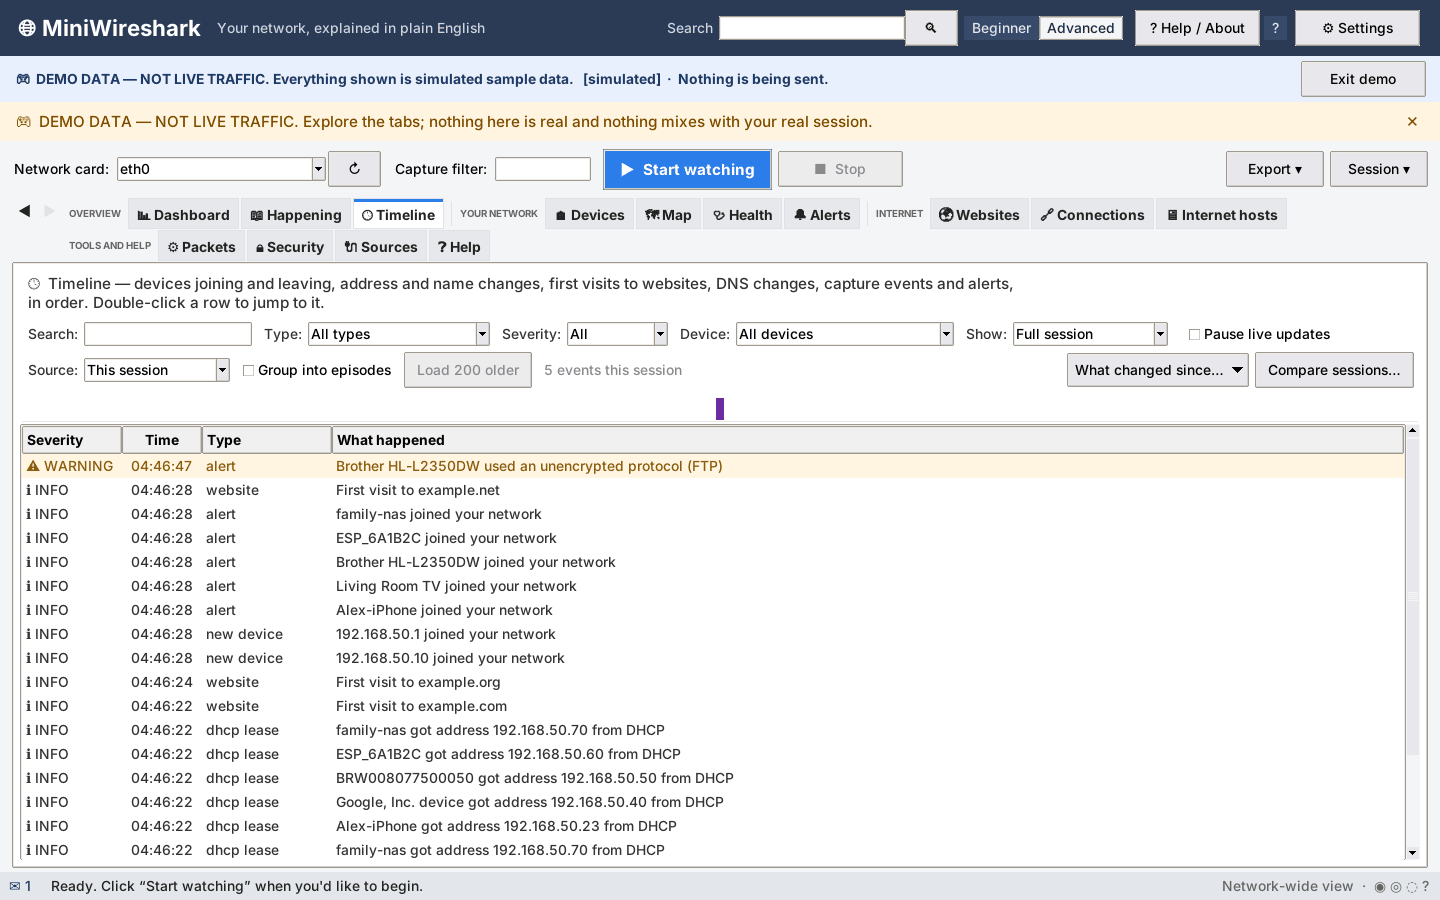
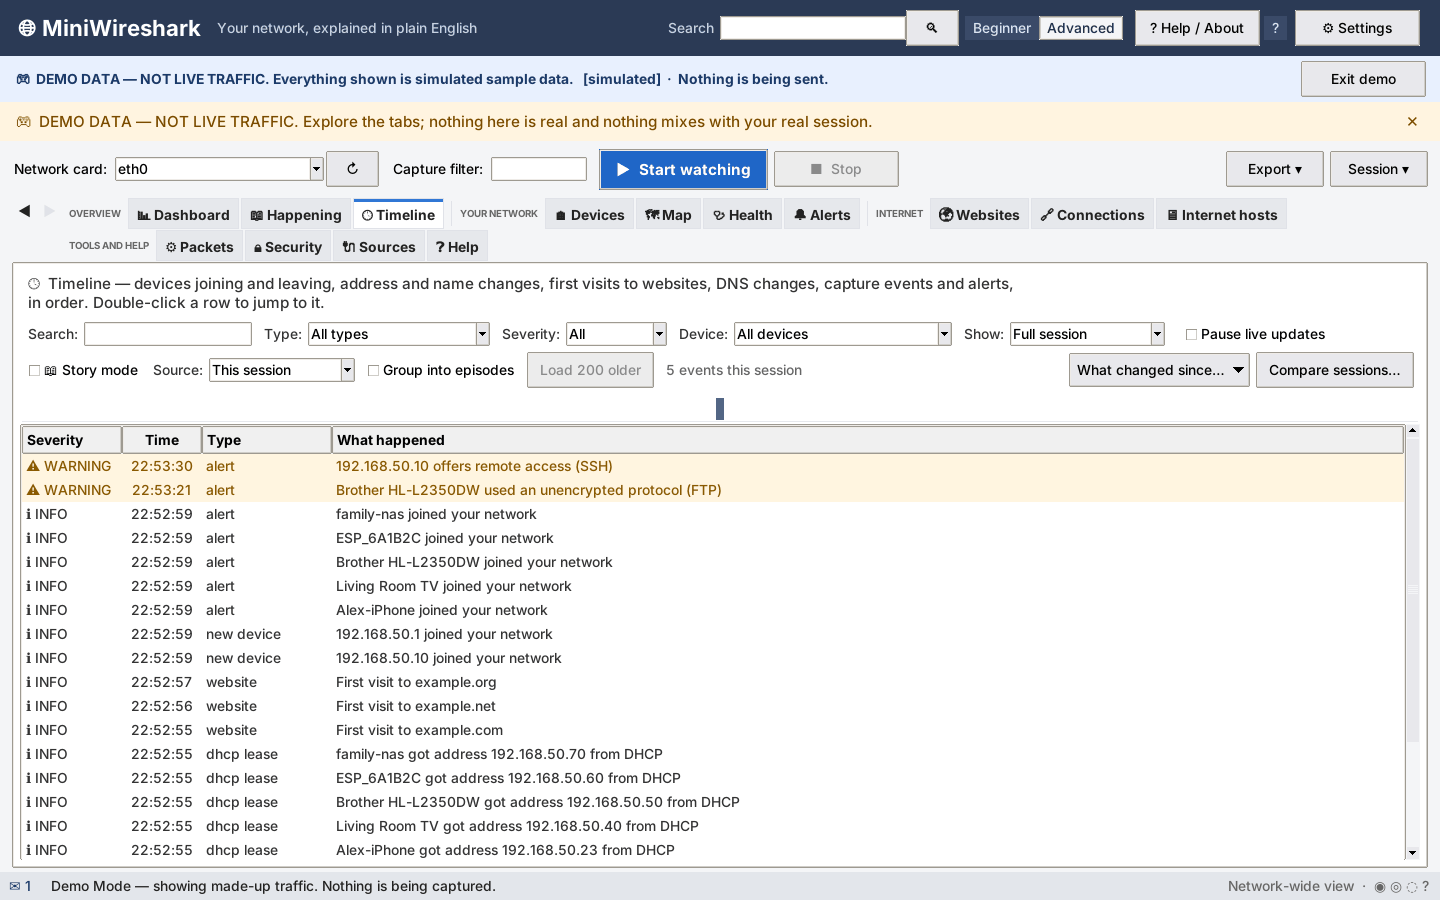
Docs: 5.3.4 screenshots, a 'Can I trust it?' page, new-feature pictures
- 34 fresh Demo Mode screenshots (every tab, light and dark, plus Story
  mode, Unusual activity and a guided question), checked for personal data
- docs/TRUST.md: how to check each claim yourself (checksums, what it
  sends and when, what it keeps, permissions, tests, honest limits)
- README and the docs index link it; issue chooser links Trust, FAQ and
  Discussions

Claude-Session: https://claude.ai/code/session_01RurBqpLVYW4KeY1YgibHyt

diff --git a/docs/TRUST.md b/docs/TRUST.md
@@ -1,0 +1,94 @@
+<p align="center"><img src="assets/icons/shield.svg" width="72" alt=""></p>
+
+# Can I trust MiniWireshark? Check for yourself
+
+A network monitor sees everything your computer sends, so you should be skeptical about it. This page doesn't ask you to take anything on faith. Each claim below comes with a way to check it yourself.
+
+## In short
+
+| Claim | How to check it |
+|---|---|
+| It is one readable Python file, with no installer and no compiled code. | Open `miniwireshark.py` in any text editor. Its docstring lists every region in order. |
+| The file you downloaded is the published one. | Compare its SHA-256 with the `.sha256` file on the release and with the [version index](VERSIONS.md). |
+| It has no telemetry. Everything it sends goes through one gate and is listed. | Open **Security → What MiniWireshark sent**. Turn on the **kill switch** and watch it block everything. |
+| It never phones home for updates from anywhere but GitHub. | Read [SECURITY.md](../SECURITY.md#where-updates-come-from). Search the file for `OFFICIAL_UPDATE_REPO`. |
+| Its claims are tested. | Run `python miniwireshark.py --self-test` on your own computer (a few minutes, no capture or admin rights needed). |
+| It says what it can't see. | The vantage meter in the bottom-right corner, and **Help → What this computer can see**. |
+
+## 1. Check the download
+
+Download it only from the [official releases page](https://github.com/darkckillerc4/MiniWireshark/releases). Other sites may offer changed copies.
+
+```bash
+sha256sum miniwireshark-<version>.py          # Linux
+shasum -a 256 miniwireshark-<version>.py      # macOS
+```
+
+```powershell
+Get-FileHash -Algorithm SHA256 .\miniwireshark-<version>.py   # Windows
+```
+
+The value must match the `.sha256` file next to it on the release. Every release since 1.0 is listed with its checksum in [VERSIONS.md](VERSIONS.md). Each release is built by the public [release workflow](../.github/workflows/release.yml) from the commit it names. You can compare the file with `git show v<version>:miniwireshark.py`.
+
+## 2. Check what it sends
+
+MiniWireshark mostly *listens*. It sends something in the following cases, each through one function, `outbound()`, which records the send in a ledger:
+
+| What | When | Where it goes |
+|---|---|---|
+| Update check | Once a day, unless you turn it off | `api.github.com`, for the latest release number only |
+| Reference lists | About once a month, unless you turn it off | `wireshark.org` (vendor names) and `publicsuffix.org`. Plain file downloads. |
+| Private Python and packages | Only when you approve the download list | `python.org` and the Python Package Index (`pypi.org`, `files.pythonhosted.org`) |
+| Npcap (Windows) | Only when you choose to install it | `npcap.com` |
+| Health checks | When you open Health or run them | Your router, your DNS server, and a test address |
+| Device discovery (Active Mode) | Only on your own subnet, and never on a network you haven't trusted | Devices on your local network |
+| Country lookup | **Off** by default | An online lookup service, only if you turn it on |
+| Pi-hole / AdGuard Home | Only if you add one | The helper you added, on your network |
+| Router port-forwarding check | Only when you press the button | Your router |
+
+How to check:
+
+- **Security → What MiniWireshark sent** lists every send, with its purpose and destination.
+- The **kill switch** (Settings → Privacy & Lookups) blocks all of it. A blocked send is listed as blocked.
+- **Safe Mode** (`--safe`) starts with no automatic capture, no history, no update checks and no downloads.
+- Watch it from outside with your firewall, or with Wireshark itself. Filter on the computer's address while MiniWireshark runs in Demo Mode, which sends nothing at all.
+- In the code, a self-test (`outbound_bypasses`) parses the file and fails if any network call skips the gate. That includes `pip` and other programs it starts.
+
+## 3. Check what it keeps
+
+Everything it writes goes in one data folder (see [Installation](INSTALL.md#where-it-keeps-its-files)): logs, sessions, the optional history, and its private packages. History is **off** by default.
+
+- Passwords, mail logins and message bodies are dropped inside the decoders and never stored. A canary self-test plants fake secrets and checks every report, session, CSV, log, history row and clipboard copy for them.
+- On Linux and macOS the data folder is closed to other users.
+- **Storage used…** in the command palette (`Ctrl+K`) shows what each part takes. Deleting the folder removes everything.
+- Shareable reports and the Network check-up can replace names and addresses with pseudonyms.
+
+## 4. Check the permissions it asks for
+
+- **Windows:** packet capture needs the [Npcap](https://npcap.com/) driver. Once Npcap is installed, capture works without administrator rights.
+- **Linux and macOS:** capture needs root, `CAP_NET_RAW` or access to `/dev/bpf*`. From 5.3.4 MiniWireshark doesn't start as administrator. It asks for your password only when capture starts. Demo Mode, capture files and the help never ask.
+
+You can always say no. It then opens in limited mode, where you can still use capture files, saved sessions and the demo.
+
+## 5. Check how it is tested
+
+- **Self-test:** more than 340 tests built into the file (`--self-test`). They cover the decoders, the alert rules, the privacy canary, the outbound gate, corrupt files and clock jumps.
+- **GUI test:** `--gui-test` drives the real window through every tab.
+- **CI:** every push and pull request runs the self-test on Python 3.8, 3.12 and 3.13, the GUI test on two Ubuntu versions, the self-test and GUI test on Windows, the self-test on macOS, and a [privacy check](../.github/scripts/privacy_check.py) that keeps captures, personal data and keys out of this public repository. Results are on the [Actions page](https://github.com/darkckillerc4/MiniWireshark/actions).
+- **Long runs:** 5.3.4 ran an 8-hour soak test on a real Windows PC, which tracked memory, threads and handles.
+- **Screenshots** in these docs are taken from Demo Mode: simulated data with reserved `.example` names. Nothing in them is real traffic.
+
+## 6. Honest limits
+
+- **It can only see what reaches this computer.** On Wi-Fi and on most switches, that is mostly this computer's own traffic plus broadcasts. It says so and doesn't guess the rest. Seeing more needs a mirror port, a hub, or a DNS helper such as Pi-hole.
+- **Device types are evidence-based guesses.** Every guess shows its confidence and the evidence for it. An IP address alone is never counted as a device.
+- **Encrypted traffic stays encrypted.** It sees which site a connection goes to (from DNS and TLS names), not what was said.
+- **It is not a replacement for Wireshark.** It covers the common protocols in depth, but Wireshark has thousands of dissectors.
+- **It is pure Python.** That is fine for a home or small-office network. On very busy links it says when it falls behind and only counts packets until it catches up.
+- **How it is made:** MiniWireshark is a one-person project. Most of the code is written with an AI coding assistant (Claude), then reviewed, tested and released by the maintainer. Each change comes with self-tests, and nothing ships without the maintainer's sign-off.
+
+## 7. Found a problem?
+
+Security issues: please use private reporting, as described in [SECURITY.md](../SECURITY.md). Anything else: [open an issue](https://github.com/darkckillerc4/MiniWireshark/issues/new/choose). If you checked one of the claims above and it didn't hold, that is exactly what we want to hear.
+
+MiniWireshark is an independent project. It is not affiliated with or endorsed by the Wireshark Foundation or the Wireshark project.

diff --git a/README.md b/README.md
@@ -60,7 +60,7 @@ The engineering underneath (a self-installing private Python runtime, a decoder 
 
 ## Screenshots
 
-All taken in Demo Mode, and they follow your GitHub theme. Every tab, in both themes, is in [docs/SCREENSHOTS.md](docs/SCREENSHOTS.md).
+All taken with 5.3.4 in Demo Mode (simulated data, nothing captured), and they follow your GitHub theme. Every tab, in both themes, is in [docs/SCREENSHOTS.md](docs/SCREENSHOTS.md).
 
 <table>
 <tr>
@@ -70,6 +70,10 @@ All taken in Demo Mode, and they follow your GitHub theme. Every tab, in both th
 <tr>
 <td width="50%"><picture><source media="(prefers-color-scheme: dark)" srcset="docs/assets/screens/dark-health.png"><img src="docs/assets/screens/light-health.png" alt="Health tab"></picture><p align="center"><b>Health</b>: Wi-Fi, router, DNS and Internet checks</p></td>
 <td width="50%"><picture><source media="(prefers-color-scheme: dark)" srcset="docs/assets/screens/dark-packets.png"><img src="docs/assets/screens/light-packets.png" alt="Packets tab"></picture><p align="center"><b>Packets</b>: dissection, streams and filters</p></td>
+</tr>
+<tr>
+<td width="50%"><picture><source media="(prefers-color-scheme: dark)" srcset="docs/assets/screens/dark-investigate.png"><img src="docs/assets/screens/light-investigate.png" alt="Why is my Internet slow? window"></picture><p align="center"><b>Guided questions</b>: evidence for and against, ranked (new in 5.3.4)</p></td>
+<td width="50%"><picture><source media="(prefers-color-scheme: dark)" srcset="docs/assets/screens/dark-story.png"><img src="docs/assets/screens/light-story.png" alt="Timeline in Story mode"></picture><p align="center"><b>Story mode</b>: what changed, in plain sentences (new in 5.3.4)</p></td>
 </tr>
 </table>
 
@@ -120,6 +124,7 @@ The full list, including the developer switches, is in [Installation](docs/INSTA
 | [Features](docs/FEATURES.md) | Everything MiniWireshark can do, including every alert it raises |
 | [Architecture](docs/ARCHITECTURE.md) | How the single file is organised and how a packet becomes an answer |
 | [FAQ and troubleshooting](docs/FAQ.md) | Capture problems, Safe Mode, privacy questions |
+| [Can I trust it?](docs/TRUST.md) | Check what it sends, keeps and asks for, how it is tested, and its honest limits |
 | [Screenshots](docs/SCREENSHOTS.md) | Every tab, in the light and the dark theme |
 | [Under the hood](docs/UNDER-THE-HOOD.md) | The runtime manager, fast decoder, signed updates, self-tests and the rest of the engineering |
 | [Logo and images](docs/BRANDING.md) | The logo, icons, Windows icon and social preview |
@@ -146,6 +151,8 @@ MiniWireshark is a **defensive** tool for networks you own or are allowed to mon
 - **Your data folder is private.** It is closed to other users, and administrator rights are asked for only when capture starts (Linux and macOS).
 - **Redaction.** Reports and exports can replace real names and addresses with documentation-range pseudonyms.
 - **Active scanning stays on your own subnet,** and Quiet Mode turns it off on networks you haven't trusted.
+
+Skeptical? Good. [Can I trust it?](docs/TRUST.md) shows how to check each of these claims yourself.
 
 Found a security issue? See [SECURITY.md](SECURITY.md).
 

diff --git a/docs/SCREENSHOTS.md b/docs/SCREENSHOTS.md
@@ -1,8 +1,10 @@
 # Screenshots
 
-Every tab of MiniWireshark, taken with 5.1.2 in **Demo Mode**: the data is simulated and every name is a reserved `.example` name. Nothing was captured.
+Every tab of MiniWireshark **5.3.4**, plus the screens new in 5.3.4, taken in **Demo Mode** at 1440×900. The data is simulated and every name is a reserved `.example` name. Nothing was captured.
 
-The pictures follow your GitHub theme: switch between light and dark to see both. All 28 files are in [`assets/screens/`](assets/screens/). The screens added in 5.3.4 (Ready?, Story mode, Unusual activity, the Calls card and the Network check-up) are not pictured yet; `python miniwireshark.py --gui-shots DIR` takes fresh pictures of every tab.
+The pictures follow your GitHub theme: switch between light and dark to see both. All 34 files are in [`assets/screens/`](assets/screens/). To take your own, start `python miniwireshark.py --demo` and look around; `--gui-shots DIR` photographs every tab of a synthetic network for developers.
+
+**New in 5.3.4:** [Story mode](#story-mode) · [Unusual activity](#unusual-activity) · [Guided questions](#guided-questions)
 
 ## Dashboard
 
@@ -128,4 +130,33 @@ Built-in guides, a glossary and the Quick Start.
 <picture>
   <source media="(prefers-color-scheme: dark)" srcset="assets/screens/dark-help.png">
   <img src="assets/screens/light-help.png" alt="Help tab, demo data" width="100%">
+</picture>
+
+## New in 5.3.4
+
+### Story mode
+
+The Timeline told as a story: what changed, day by day, in plain sentences, with repeats grouped together.
+
+<picture>
+  <source media="(prefers-color-scheme: dark)" srcset="assets/screens/dark-story.png">
+  <img src="assets/screens/light-story.png" alt="Timeline in Story mode, demo data" width="100%">
+</picture>
+
+### Unusual activity
+
+At the top of the Security tab. Each device is compared with what it usually does, and anything odd is shown with the worrying and the innocent reading side by side. Here, in the demo, nothing is unusual.
+
+<picture>
+  <source media="(prefers-color-scheme: dark)" srcset="assets/screens/dark-unusual.png">
+  <img src="assets/screens/light-unusual.png" alt="Security tab with the Unusual activity section, demo data" width="100%">
+</picture>
+
+### Guided questions
+
+Seven questions, such as *Why is my Internet slow?*, *Is it my Wi-Fi or the Internet?* and *Why does my call stutter?* Each explanation is ranked Likely, Possible or Unlikely, with the evidence for and against it. When it can't tell from this computer, it says so.
+
+<picture>
+  <source media="(prefers-color-scheme: dark)" srcset="assets/screens/dark-investigate.png">
+  <img src="assets/screens/light-investigate.png" alt="Why is my Internet slow? investigation window, demo data" width="100%">
 </picture>

diff --git a/docs/README.md b/docs/README.md
@@ -10,6 +10,7 @@ MiniWireshark is a single-file network monitor that explains your network in pla
 | [User guide](USER-GUIDE.md) | Learn the window: the tabs, filters, shortcuts and settings |
 | [Features](FEATURES.md) | See everything MiniWireshark can do, with the alerts it raises |
 | [Screenshots](SCREENSHOTS.md) | See every tab, in the light and the dark theme |
+| [Can I trust it?](TRUST.md) | Check for yourself what it sends, keeps and asks for, and how it is tested |
 | [Under the hood](UNDER-THE-HOOD.md) | Read about the runtime manager, the fast decoder, signed updates and the self-tests |
 | [Architecture](ARCHITECTURE.md) | Understand how the one file is organised and how a packet becomes an answer |
 | [FAQ and troubleshooting](FAQ.md) | Fix a problem, or check what MiniWireshark does with your data |
